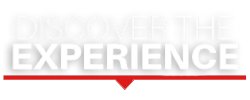
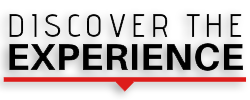
hero ready

diff --git a/templates/index.html b/templates/index.html
@@ -5,13 +5,13 @@
     <meta name="viewport" content="width=device-width, initial-scale=1.0">
     <meta http-equiv="X-UA-Compatible" content="ie=edge">
     <link href="https://fonts.googleapis.com/css?family=Open+Sans+Condensed:300,700&display=swap" rel="stylesheet">
-    <link rel="stylesheet" href="static/css/styles.css">
+    <link rel="stylesheet" href="../static/css/styles.css">
     <title>Titanic ¿Vives o mueres?</title>
 </head>
 <body>
     <div class="appContainer">
         <header class="header">
-            <img class="logo"src="static/images/titanic-logo.png" alt="Titanic Logo">
+            <img class="logo"src="../static/images/titanic-logo.png" alt="Titanic Logo">
             <h1 class="title">Titanic</h1>          
             <nav class="menu">
                 <ul>
@@ -23,10 +23,10 @@
         </header>
         <section class="hero">
             <div class="descriptionHero">
-                <img src="static/images/hero-title.png" alt="Hero Title">
+                <img src="../static/images/hero-title.png" alt="Hero Title">
                 <h2> Do you want to travel on the most famous cruise ship in the world? </h2>
                 <p> Come and enjoy the adventure of your life </br> find out if your <strong>live</strong> or <strong>die</strong> on The TITANIC</p>
-                <button href="#tickets" class="myButton">BOOK NOW</button>    
+                <a href="#tickets" class="myButton">BOOK NOW</a>    
             </div>
             
             

diff --git a/static/css/styles.css b/static/css/styles.css
@@ -48,28 +48,24 @@ body{
     padding: 30px 20px 20px 20px;
     margin:0;
     box-sizing: border-box;
-    width: 100vw;
     height: 600px;
     background-image: url(../images/hero.png);
     background-size: cover;
 }
 .descriptionHero{
+    text-align: right;
     text-transform: uppercase;
-    margin: 0 20px 0 auto;
+    margin: 0 5% 0 auto;
     font-family: 'Open Sans Condensed', sans-serif;
     color: black;
     width: 40%;
     height: auto;
     padding:20px;
-    background-color: white;
+    background-color: rgba(255, 255, 255, 0.7);
     box-sizing: border-box;
     -webkit-box-shadow: 0px 10px 15px 10px rgba(0,0,0,0.2);
     -moz-box-shadow: 0px 10px 15px 10px rgba(0,0,0,0.2);
     box-shadow: 0px 10px 15px 10px rgba(0,0,0,0.2);
-}
-{
-   font-family:  "Kapra-Optimized",Impact,"Arial Narrow",Arial,sans-serif;
-   letter-spacing: .5rem;
 }
 .descriptionHero h2, p{
   font-size: 1.4em;
@@ -79,7 +75,7 @@ body{
   margin:0;
 }
 .myButton {
-  margin: 10px auto 10px auto;
+    margin: 10px auto 10px auto;
 	-moz-box-shadow: 3px 4px 0px 0px #dd1d1a;
 	-webkit-box-shadow: 3px 4px 0px 0px #dd1d1a;
 	box-shadow: 3px 4px 0px 0px #dd1d1a;
